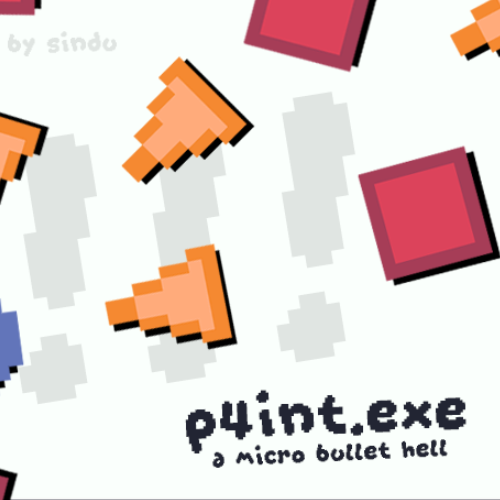
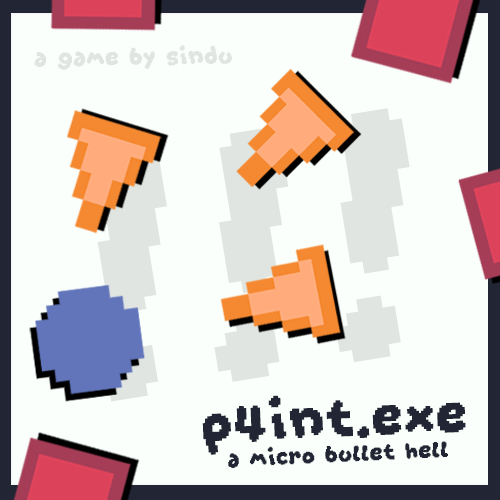
Added images and edited work descriptions

diff --git a/src/content/config.ts b/src/content/config.ts
@@ -24,6 +24,8 @@ const blog = defineCollection({
     image3: z.string().optional(),
     image4: z.string().optional(),
     image5: z.string().optional(),
+    image6: z.string().optional(),
+    image7: z.string().optional(),
   }),
 })
 
@@ -43,6 +45,8 @@ const projects = defineCollection({
     image3: z.string().optional(),
     image4: z.string().optional(),
     image5: z.string().optional(),
+    image6: z.string().optional(),
+    image7: z.string().optional(),
   }),
 })
 

diff --git a/public/js/theme.js b/public/js/theme.js
@@ -31,10 +31,10 @@ function changeTheme() {
 function preloadTheme() {
   const theme = (() => {
     const userTheme = localStorage.theme
-
     if (userTheme === "light" || userTheme === "dark") {
       return userTheme
     } else {
+      return "dark";
       return window.matchMedia("(prefers-color-scheme: dark)").matches ? "dark" : "light"
     }
   })()

diff --git a/src/components/ArticleImage.tsx b/src/components/ArticleImage.tsx
@@ -11,7 +11,7 @@ type ArticleImageProps = {
   
     return (
       <div>
-        <img src={`/images/${imageURL}`} alt="" />
+        <img src={`/images/${imageURL}`} alt="Image" class="mb-4 w-100% border-4 border-black rounded-lg p-1 dark:border-white"/>
       </div>
     );
   }

diff --git a/src/content/projects/project-4/index.md b/src/content/projects/project-4/index.md
@@ -9,6 +9,12 @@ tags:
 - APIs
 - Databases
 - HTML & CSS
+icon: "lastfm_icon.png"
+repoUrl: https://github.com/sinndu/lasfm_higherorlower
+image1: lastfm/lastfm1.png
+image2: lastfm/lastfm2.PNG
+image3: lastfm/lastfm3.PNG
+image4: lastfm/lastfm4.PNG
 ---
 
-Last.fm Higher or Lower is a web game which utilizes Last.FM's music and user database API to create a custom tailored game for the user. Fetching your song scrobble data, the game allows users to guess if they have listened to a song more or less than another fetched song. Solo developed in HTML, CSS, and Javascript.
+Last.FM Higher or Lower is a web game I developed solo, using Last.FM's music library and user database API to create a personalized experience. The game fetches your personal listening data and challenges you to guess whether you’ve listened to one song more or less than another. I built the project using HTML, CSS, and JavaScript, focusing on integrating APIs and providing an interactive and engaging user experience.

diff --git a/src/content/projects/project-3/index.md b/src/content/projects/project-3/index.md
@@ -8,6 +8,12 @@ tags:
 - C#
 - Aseprite
 icon: paint_icon.png
+demoUrl: https://sindu.itch.io/p4intexe
+image1: paint/paint1.png
+image2: paint/paint2.PNG
+image3: paint/paint3.PNG
+image4: paint/paint4.PNG
+image5: paint/paint5.PNG
 ---
 
-p4int.exe is a micro bullet hell I created in the span of a week. Focused on polish, I aimed to create a game with a good "game-feel". I solo developed the game in Unity.
+p4int.exe is a micro bullet hell game I developed solo in Unity over the span of a week. The gameplay gets progressively more intense, featuring two main enemy types and a core mechanic that revolves around "drawing" projectiles to attack enemies. I focused on polish and creating a satisfying "game-feel," delivering an engaging and dynamic experience. The game is available to play on itch.io.

diff --git a/src/content/projects/project-2/index.md b/src/content/projects/project-2/index.md
@@ -8,6 +8,15 @@ tags:
 - MonoGame
 - C#
 - XNA
+icon: blockgame/blockworld_icon.png
+repoUrl: https://github.com/robotsledbysindualexandsean/blockgame
+image1: blockgame/blockworld1.png
+image2: blockgame/blockgame1.PNG
+image3: blockgame/blockgame2.PNG
+image4: blockgame/blockgame3.PNG
+image5: blockgame/blockgame4.PNG
+image6: blockgame/blockgame5.PNG
+image7: blockgame/blockgame6.PNG
 ---
 
 Starting off as just a single block, I solo developed a 3D block engine capable of handling thousands of chunks and millions of blocks. The engine is built with a variety of features, including chunking, many types of culling, terrain generation, a lighting system, inventory system, and dungeon generator. The engine was created in C# through the Monogame framework.

diff --git a/src/content/projects/project-1/index.md b/src/content/projects/project-1/index.md
@@ -10,7 +10,13 @@ tags:
 - Javascript
 - HTML & CSS
 demoUrl: https://robots-led-by-sean.itch.io/befriend
-icon: "befriend_icon.png"
+icon: befriend/befriend_icon.png
+image1: befriend/befriend1.png
+image2: befriend/befriend2.png
+image3: befriend/befriend3.png
+image4: befriend/befriend4.png
+image5: befriend/befriend5.png
+image6: befriend/befriend6.png
 ---
 
 BEFRIEND! is a comedy dating simulator created by me and my friends during the 24-Hour YRHACKS hackathon, featuring us as the dates. With over 70 projects and 350 participating developers, BEFRIEND! came in third place overall. I worked on the project as the lead developer, creating the entire games codebase from the ground up. BEFRIEND! contains 5 unique dates, quality not assured.
